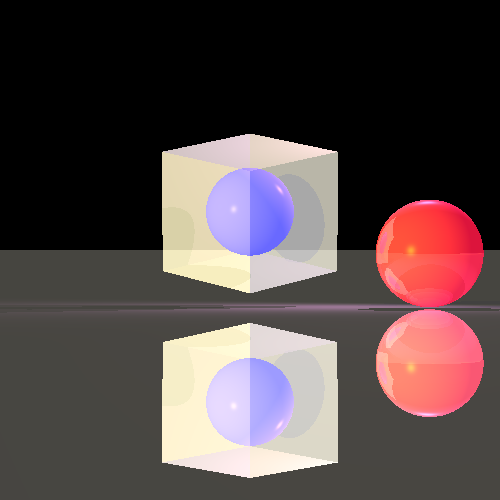
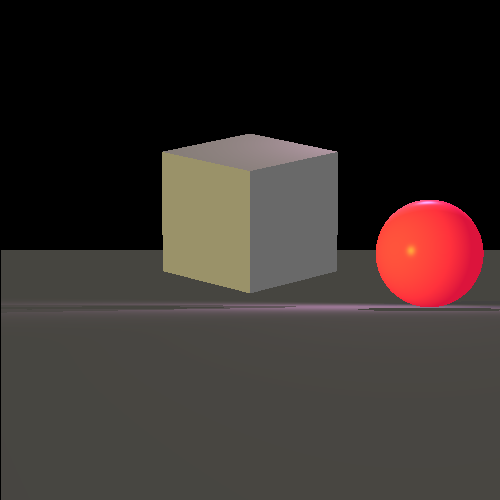
Final mini project 1

Changed region(s): [[0.3, 0.63, 0.69, 0.96], [0.3, 0.27, 0.69, 0.6], [0.75, 0.45, 0.99, 0.84]]

diff --git a/src/renderer/Render.java b/src/renderer/Render.java
@@ -13,27 +13,124 @@ import java.util.List;
 import static primitives.Util.alignZero;
 
 /**
- * Present image renderer
- */
-public class Render {
+ * Renderer class is responsible for generating pixel color map from a graphic
+ * scene, using ImageWriter class
+ *
+ * @author Dan
+ */public class Render {
 
     // Number of recursive calls
-    private static final int MAX_CALC_COLOR_LEVEL = 10;
+    private static final int MAX_CALC_COLOR_LEVEL = 4;
     // The constant k that decide who match the transparency and the reflection are will affect
     private static final double MIN_CALC_COLOR_K = 0.001;
-    // The distance
-    private static final double DISTANCE = 10;
+    // The distance of the radius circle from the head's ray
+    private static final double DISTANCE = 80;
 
     private ImageWriter _imageWriter;
     private Scene _scene;
-     //The number of additional rays that emerge when there is reflection and transparency
-     private int _NumOfRays;
-     //The number of degrees from reflection's or transparency's main ray that the new rays will create
-     private double _Degrees;
+    //The number of additional rays for the beam that emerge when there is reflection and transparency
+    //(not including the original ray)
+    private int _NumOfRays;
+    //The number of degrees from reflection's or transparency's main ray that the new rays will create
+    private double _Degrees;
 
 
+    // used for threads
+    private int _threads = 1;
+    private final int SPARE_THREADS = 2;
+    private boolean _print = false;
 
 
+    /**
+     * Pixel is an internal helper class whose objects are associated with a Render object that
+     * they are generated in scope of. It is used for multithreading in the Renderer and for follow up
+     * its progress.<br/>
+     * There is a main follow up object and several secondary objects - one in each thread.
+     * @author Dan
+     *
+     */
+    private class Pixel {
+        private long _maxRows = 0;
+        private long _maxCols = 0;
+        private long _pixels = 0;
+        public volatile int row = 0;
+        public volatile int col = -1;
+        private long _counter = 0;
+        private int _percents = 0;
+        private long _nextCounter = 0;
+
+        /**
+         * The constructor for initializing the main follow up Pixel object
+         * @param maxRows the amount of pixel rows
+         * @param maxCols the amount of pixel columns
+         */
+        public Pixel(int maxRows, int maxCols) {
+            _maxRows = maxRows;
+            _maxCols = maxCols;
+            _pixels = maxRows * maxCols;
+            _nextCounter = _pixels / 100;
+            if (Render.this._print) System.out.printf("\r %02d%%", _percents);
+        }
+
+        /**
+         *  Default constructor for secondary Pixel objects
+         */
+        public Pixel() {}
+
+        /**
+         * Internal function for thread-safe manipulating of main follow up Pixel object - this function is
+         * critical section for all the threads, and main Pixel object data is the shared data of this critical
+         * section.<br/>
+         * The function provides next pixel number each call.
+         * @param target target secondary Pixel object to copy the row/column of the next pixel
+         * @return the progress percentage for follow up: if it is 0 - nothing to print, if it is -1 - the task is
+         * finished, any other value - the progress percentage (only when it changes)
+         */
+        private synchronized int nextP(Pixel target) {
+            ++col;
+            ++_counter;
+            if (col < _maxCols) {
+                target.row = this.row;
+                target.col = this.col;
+                if (_counter == _nextCounter) {
+                    ++_percents;
+                    _nextCounter = _pixels * (_percents + 1) / 100;
+                    return _percents;
+                }
+                return 0;
+            }
+            ++row;
+            if (row < _maxRows) {
+                col = 0;
+                if (_counter == _nextCounter) {
+                    ++_percents;
+                    _nextCounter = _pixels * (_percents + 1) / 100;
+                    return _percents;
+                }
+                return 0;
+            }
+            return -1;
+        }
+
+        /**
+         * Public function for getting next pixel number into secondary Pixel object.
+         * The function prints also progress percentage in the console window.
+         * @param target target secondary Pixel object to copy the row/column of the next pixel
+         * @return true if the work still in progress, -1 if it's done
+         */
+        public boolean nextPixel(Pixel target) {
+            int percents = nextP(target);
+            if (percents > 0)
+                if (Render.this._print) {
+                    System.out.println("");
+                    System.out.printf("\r %02d%%", percents);
+                }
+            if (percents >= 0)
+                return true;
+            if (Render.this._print) System.out.printf("\r %02d%%", 100);
+            return false;
+        }
+    }
 
     /**
      * Constructor
@@ -48,6 +145,13 @@ public class Render {
         _NumOfRays = 0;
     }
 
+    /**
+     * Constructor
+     * @param imageWriter handle with creating the image file
+     * @param scene the pictured sence
+     * @param NumOfRays additional attribute if we want to create Glossy Surfaces and Diffused Glass effects
+     * @param Degrees of the area of the ray's beam
+     */
     public Render(ImageWriter imageWriter, Scene scene, int NumOfRays, double Degrees){
         if(NumOfRays<0 || Degrees <0)
             throw new IllegalArgumentException("The num of rays and the num of degrees must be bigger/equal to zero");
@@ -61,8 +165,8 @@ public class Render {
 
 
     /**
-     * Takes the scene and the image writer and makes the photo with them
-     */
+     * Takes the scene and the image writer and create the photo with them
+     *//*
     public void renderImage(){
 
         Camera camera = _scene.getCamera();
@@ -83,6 +187,44 @@ public class Render {
                         : calcColor(closestPoint, ray).getColor());
             }
         }
+    }*/
+
+    /**
+     * This function renders image's pixel color map from the scene included with
+     * the Renderer object
+     */
+    public void renderImage() {
+        final int nX = _imageWriter.getNx();
+        final int nY = _imageWriter.getNy();
+        final double dist = _scene.getDistance();
+        final double width = _imageWriter.getWidth();
+        final double height = _imageWriter.getHeight();
+        final Camera camera = _scene.getCamera();
+        java.awt.Color background = _scene.getBackground().getColor();
+
+        final Pixel thePixel = new Pixel(nY, nX);
+
+        // Generate threads
+        Thread[] threads = new Thread[_threads];
+        for (int i = _threads - 1; i >= 0; --i) {
+            threads[i] = new Thread(() -> {
+                Pixel pixel = new Pixel();
+                while (thePixel.nextPixel(pixel)) {
+                    Ray ray = camera.constructRayThroughPixel(nX, nY, pixel.col, pixel.row, //
+                            dist, width, height);
+                    GeoPoint closestPoint = findClosestIntersection(ray);
+                    _imageWriter.writePixel(pixel.col, pixel.row, closestPoint == null ? background
+                            : calcColor(closestPoint, ray).getColor());
+                }
+            });
+        }
+
+        // Start threads
+        for (Thread thread : threads) thread.start();
+
+        // Wait for all threads to finish
+        for (Thread thread : threads) try { thread.join(); } catch (Exception e) {}
+        if (_print) System.out.printf("\r100%%\n");
     }
 
     /**
@@ -178,7 +320,7 @@ public class Render {
      */
     private Color calcBeamColor(Color color, Vector n, Ray refRay, int level, double k, double kk) {
         Color addColor = Color.BLACK;
-        List<Ray> rays = refRay.raySplitter(n ,_NumOfRays, _Degrees ,DISTANCE);
+        List<Ray> rays = refRay.raySplitter(n ,_NumOfRays, _Degrees, DISTANCE);
         for (Ray ray : rays) {
             GeoPoint refPoint = findClosestIntersection(ray);
             if (refPoint != null) {
@@ -325,5 +467,37 @@ public class Render {
      */
     public void writeToImage(){
         _imageWriter.writeToImage();
+    }
+
+    /**
+     * Set multithreading <br>
+     * - if the parameter is 0 - number of coress less 2 is taken
+     *
+     * @param threads number of threads
+     * @return the Render object itself
+     */
+    public Render setMultithreading(int threads) {
+        if (threads < 0)
+            throw new IllegalArgumentException("Multithreading patameter must be 0 or higher");
+        if (threads != 0)
+            _threads = threads;
+        else {
+            int cores = Runtime.getRuntime().availableProcessors() - SPARE_THREADS;
+            if (cores <= 2)
+                _threads = 1;
+            else
+                _threads = cores;
+        }
+        return this;
+    }
+
+    /**
+     * Set debug printing on
+     *
+     * @return the Render object itself
+     */
+    public Render setDebugPrint() {
+        _print = true;
+        return this;
     }
 }

diff --git a/src/unittests/renderer/GlassCube.java b/src/unittests/renderer/GlassCube.java
@@ -54,7 +54,7 @@ public class GlassCube {
 
 
         ImageWriter imageWriter = new ImageWriter("GlassCube", 150, 150, 500, 500);
-        Render render = new Render(imageWriter, scene);
+        Render render = new Render(imageWriter, scene).setMultithreading(3).setDebugPrint();
 
         render.renderImage();
         render.writeToImage();
@@ -135,7 +135,7 @@ public class GlassCube {
 
                 ,new Sphere(new Point3D(0, 35, 50),25,new Color(java.awt.Color.BLUE), new Material(0.5, 0.5, 100))
 
-                ,new Plane(new Point3D(0,-8,-2),new Vector(0,4,1),new Color(java.awt.Color.DARK_GRAY),new Material(0.25,0.3,50,0,0))
+                ,new Plane(new Point3D(0,-8,-2),new Vector(0,4,1),new Color(java.awt.Color.DARK_GRAY),new Material(0.25,0.3,50,0,0.8))
                 //,new Plane(new Point3D(0,-20/7d,-2),new Vector(0,10/7d,1),new Color(java.awt.Color.DARK_GRAY),new Material(0,0,0,0,0.8))
                 // ,new Plane(new Point3D(0,0,150),new Vector(0,-0.2,-1),new Color(java.awt.Color.DARK_GRAY),new Material(0.2,0.1,100,0,0.8))
 
@@ -151,7 +151,7 @@ public class GlassCube {
 
 
         ImageWriter imageWriter = new ImageWriter("Glass Cube with upgrade", 150, 150, 500, 500);
-        Render render = new Render(imageWriter, scene,10, 45);
+        Render render = new Render(imageWriter, scene,50, 5).setMultithreading(3).setDebugPrint();
 
         render.renderImage();
         render.writeToImage();
@@ -207,7 +207,7 @@ public class GlassCube {
                 0.0004, 0.0000006, new Point3D(-100, 100, -500), new Vector(-1, 1, 2)));
 
         ImageWriter imageWriter = new ImageWriter("testingTestwithUpgrade", 150, 150, 500, 500);
-        Render render = new Render(imageWriter, scene,80,45);
+        Render render = new Render(imageWriter, scene,80,5).setMultithreading(3).setDebugPrint();
 
         render.renderImage();
         render.writeToImage();

diff --git a/src/primitives/Ray.java b/src/primitives/Ray.java
@@ -78,7 +78,6 @@ public class Ray {
      * Gets the num of rays and the area's degrees where all the rays will be
      * @param NumOfRays num of additional rays
      * @param Degree of the area for all the rays
-     * @param distance of the ray to the area
      * @return original ray among with the additional rays
      */
     public List<Ray> raySplitter(Vector normal,int NumOfRays, double Degree , double distance){
@@ -90,9 +89,10 @@ public class Ray {
         double radius = Math.tan(Degree / 360d * 2 * Math.PI );
 
         Vector firstNormal = _direction.createNormal();
-        Vector secondNormal = firstNormal.crossProduct(_direction);
+        Vector secondNormal = firstNormal.crossProduct(_direction).normalize();
 
         List<Ray> splittedRays = new LinkedList<>();
+
         Point3D centerCirclePoint = this.getPoint(distance);
         Point3D randomCirclePoint = null;
         Random random = new Random();

diff --git a/src/unittests/renderer/ReflectionRefractionTests.java b/src/unittests/renderer/ReflectionRefractionTests.java
@@ -70,7 +70,7 @@ public class ReflectionRefractionTests {
 				   new Vector(-1, 1, 4)));
 
 		ImageWriter imageWriter = new ImageWriter("twoSpheresMirrored", 2500, 2500, 500, 500);
-		Render render = new Render(imageWriter, scene,50,8);
+		Render render = new Render(imageWriter, scene,50,5).setMultithreading(3).setDebugPrint();
 
 		render.renderImage();
 		render.writeToImage();
